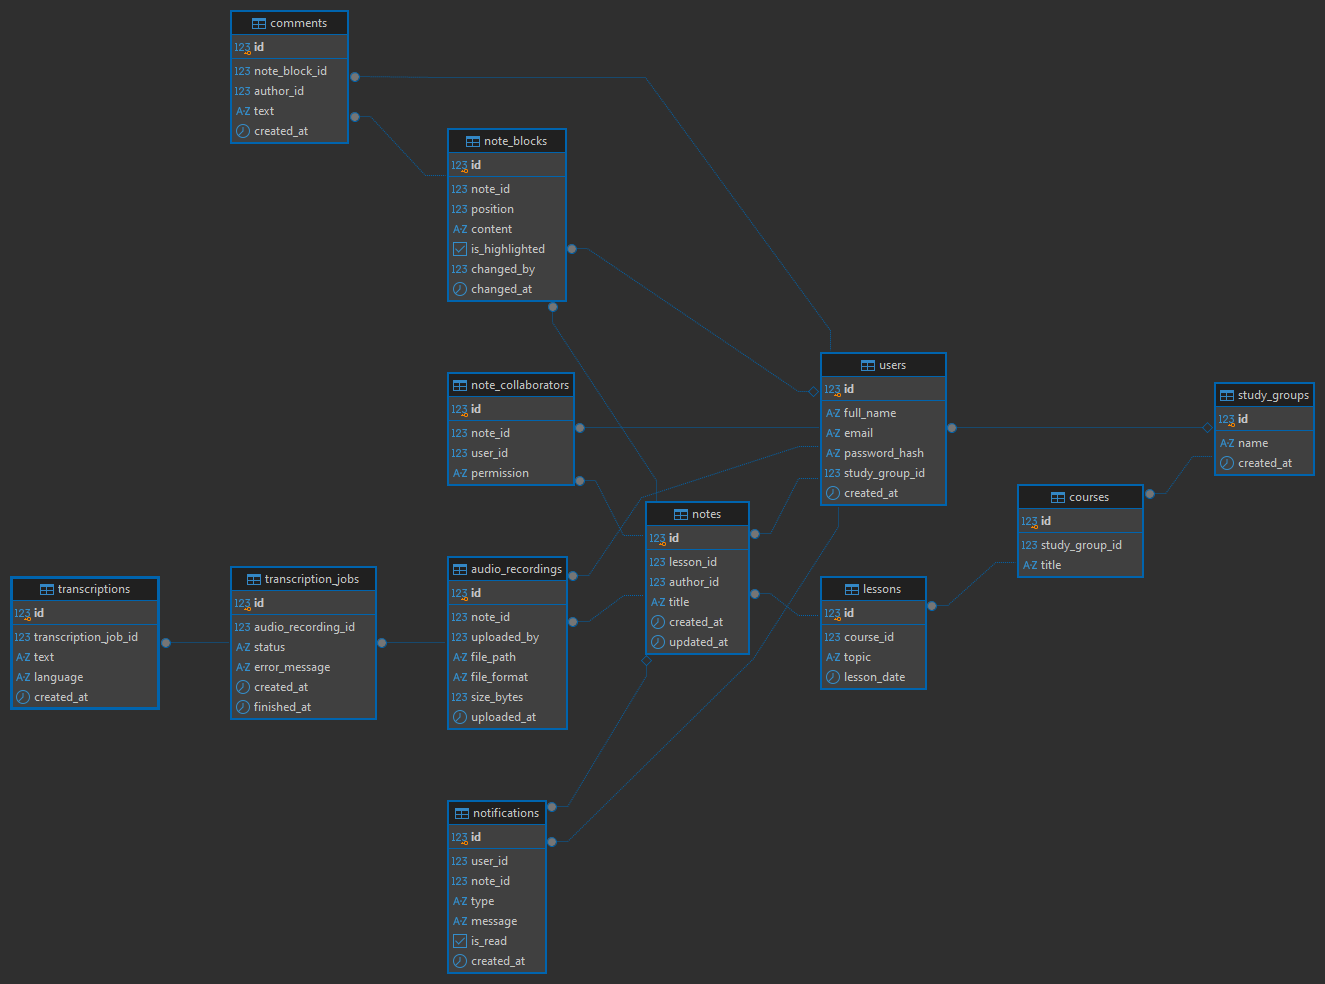
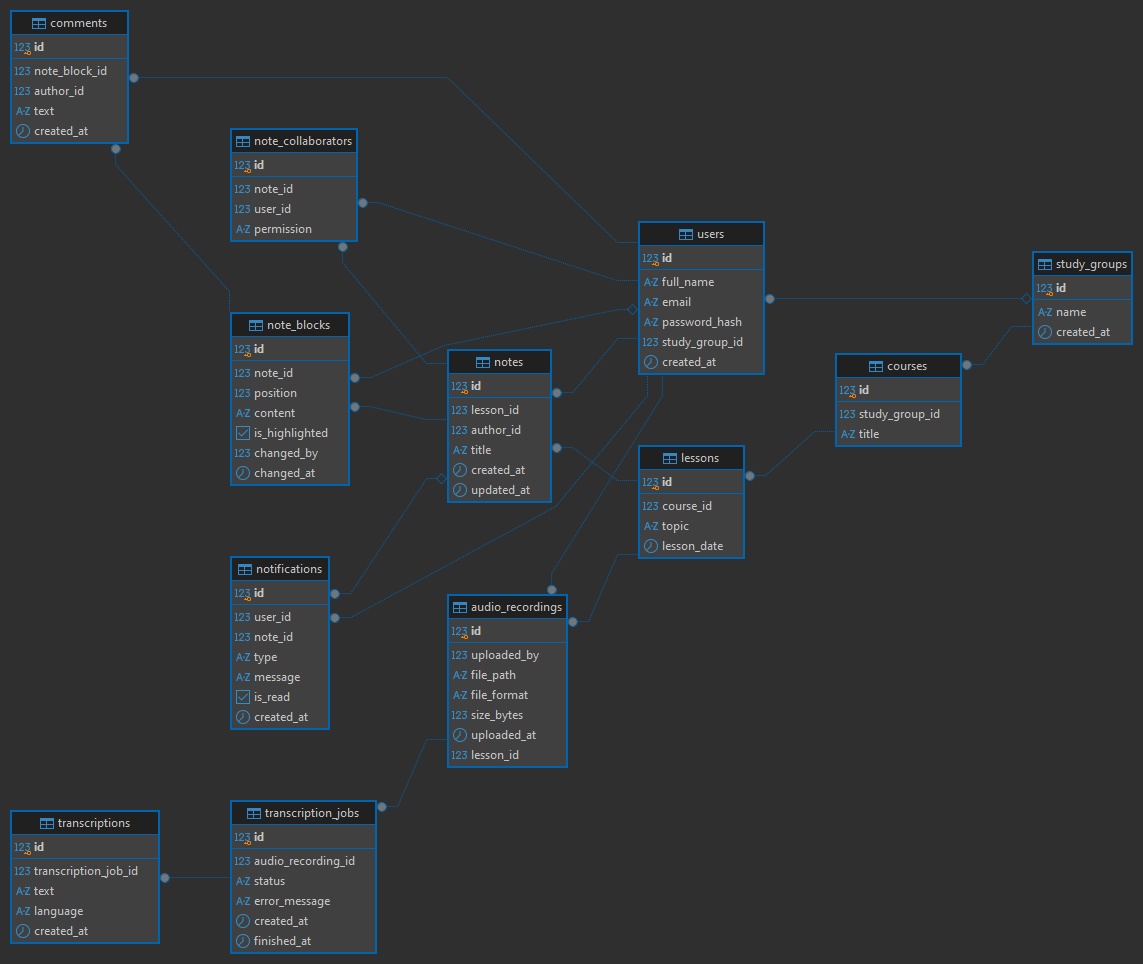
docs: link audio recordings to lessons

diff --git a/docs/erd.md b/docs/erd.md
@@ -9,7 +9,7 @@ erDiagram
     COURSE ||--o{ LESSON : "contains"
     LESSON ||--o{ NOTE : "has notes"
     USER ||--o{ NOTE : "authors"
-    NOTE ||--o{ AUDIO_RECORDING : "has"
+    LESSON ||--o{ AUDIO_RECORDING : "has recordings"
     USER ||--o{ AUDIO_RECORDING : "uploads"
     AUDIO_RECORDING ||--o{ TRANSCRIPTION_JOB : "processed by"
     TRANSCRIPTION_JOB ||--o| TRANSCRIPTION : "produces"
@@ -55,7 +55,7 @@ erDiagram
     }
     AUDIO_RECORDING {
         bigint id PK
-        bigint note_id FK
+        bigint lesson_id FK
         bigint uploaded_by FK
         string file_path
         string file_format
